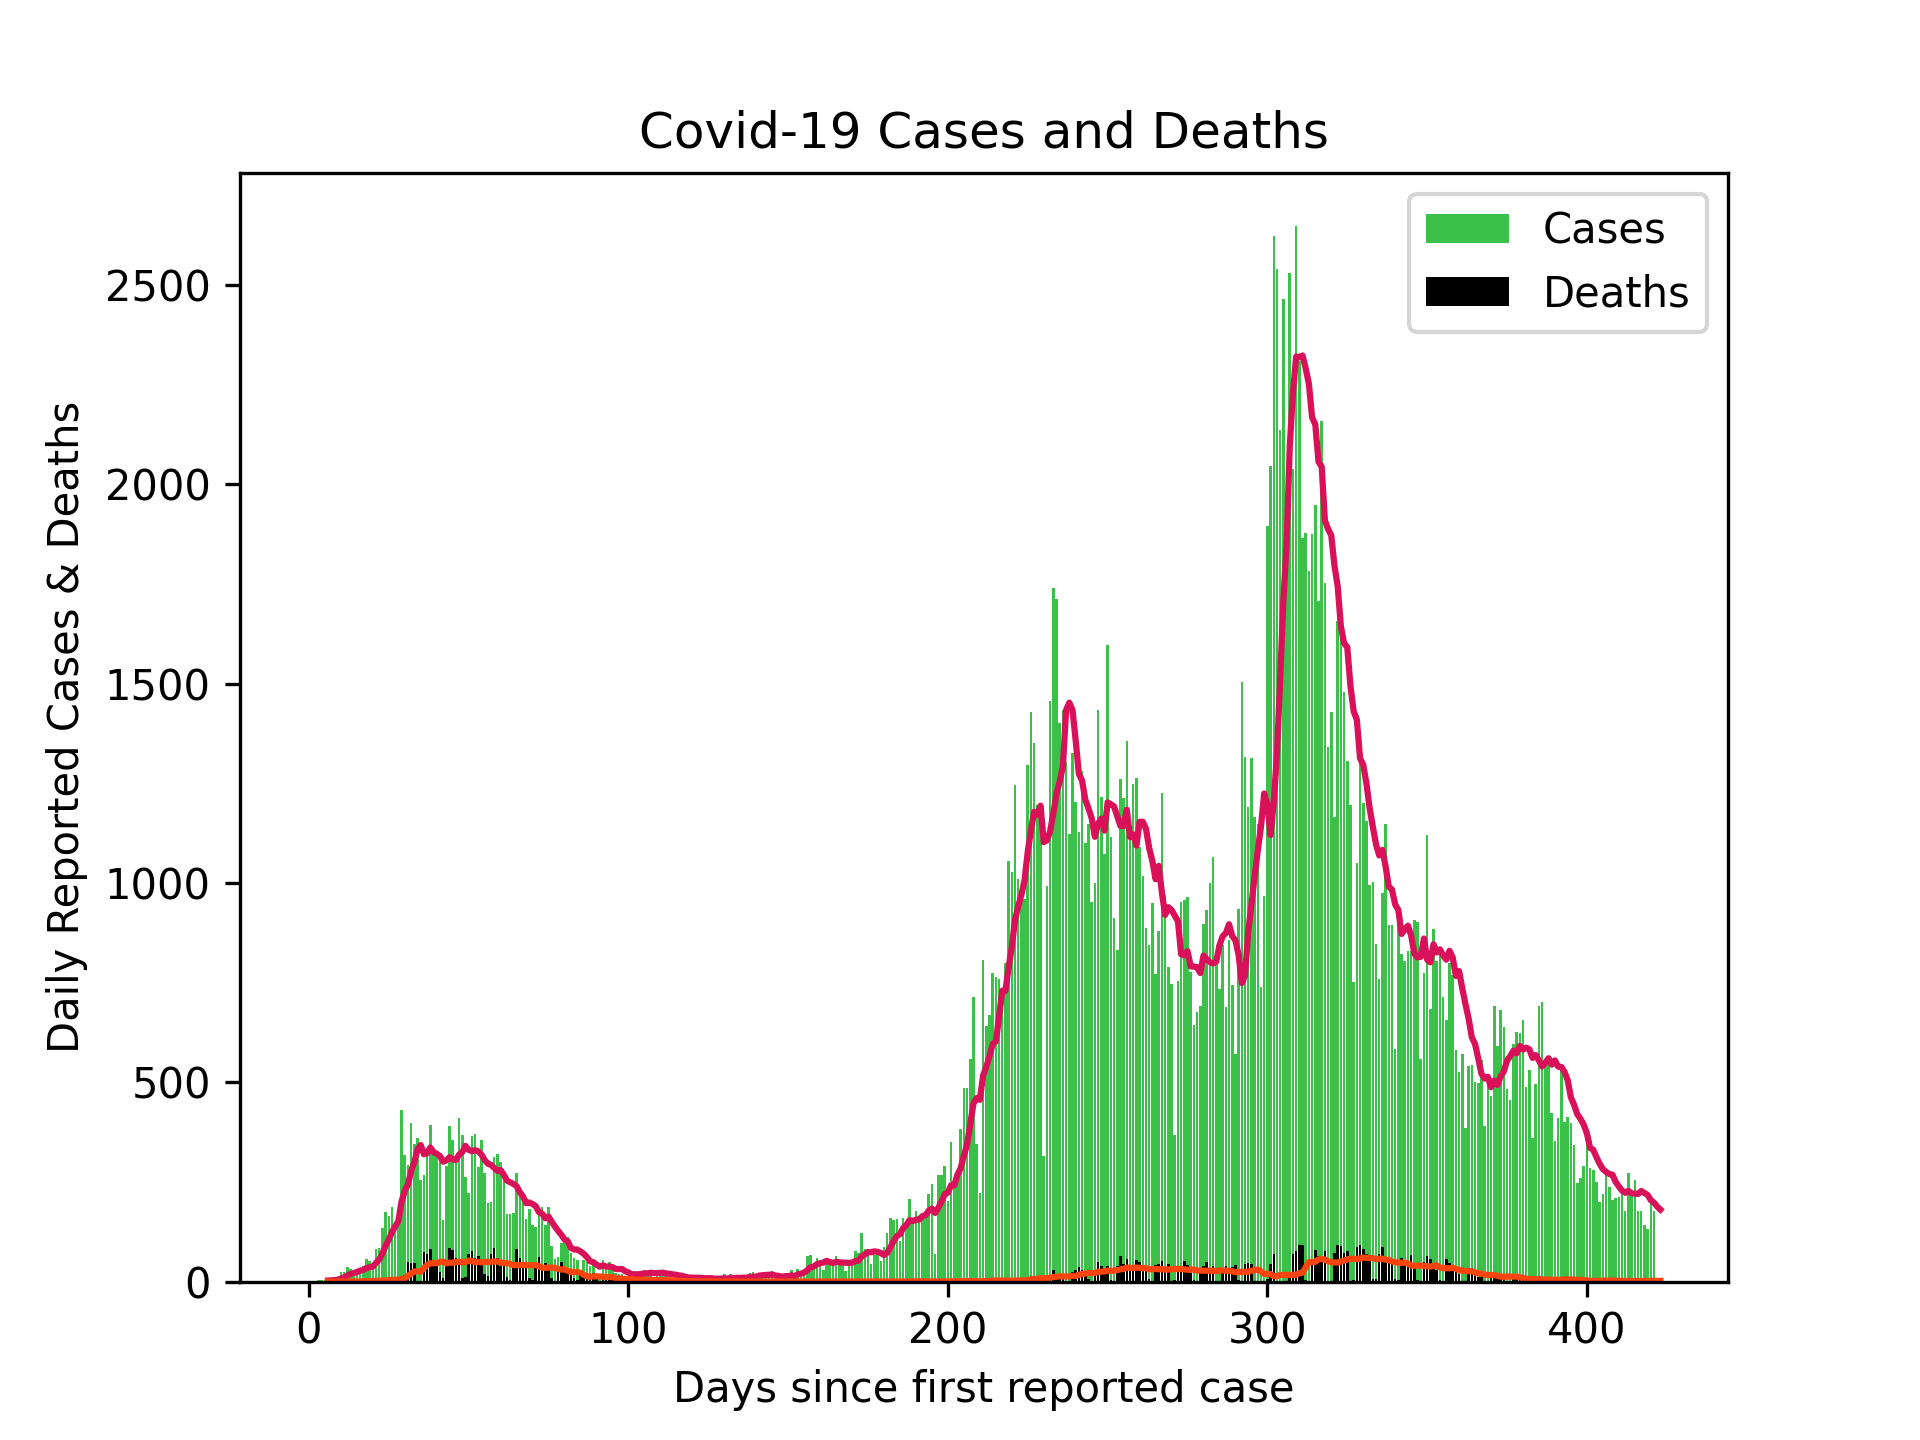
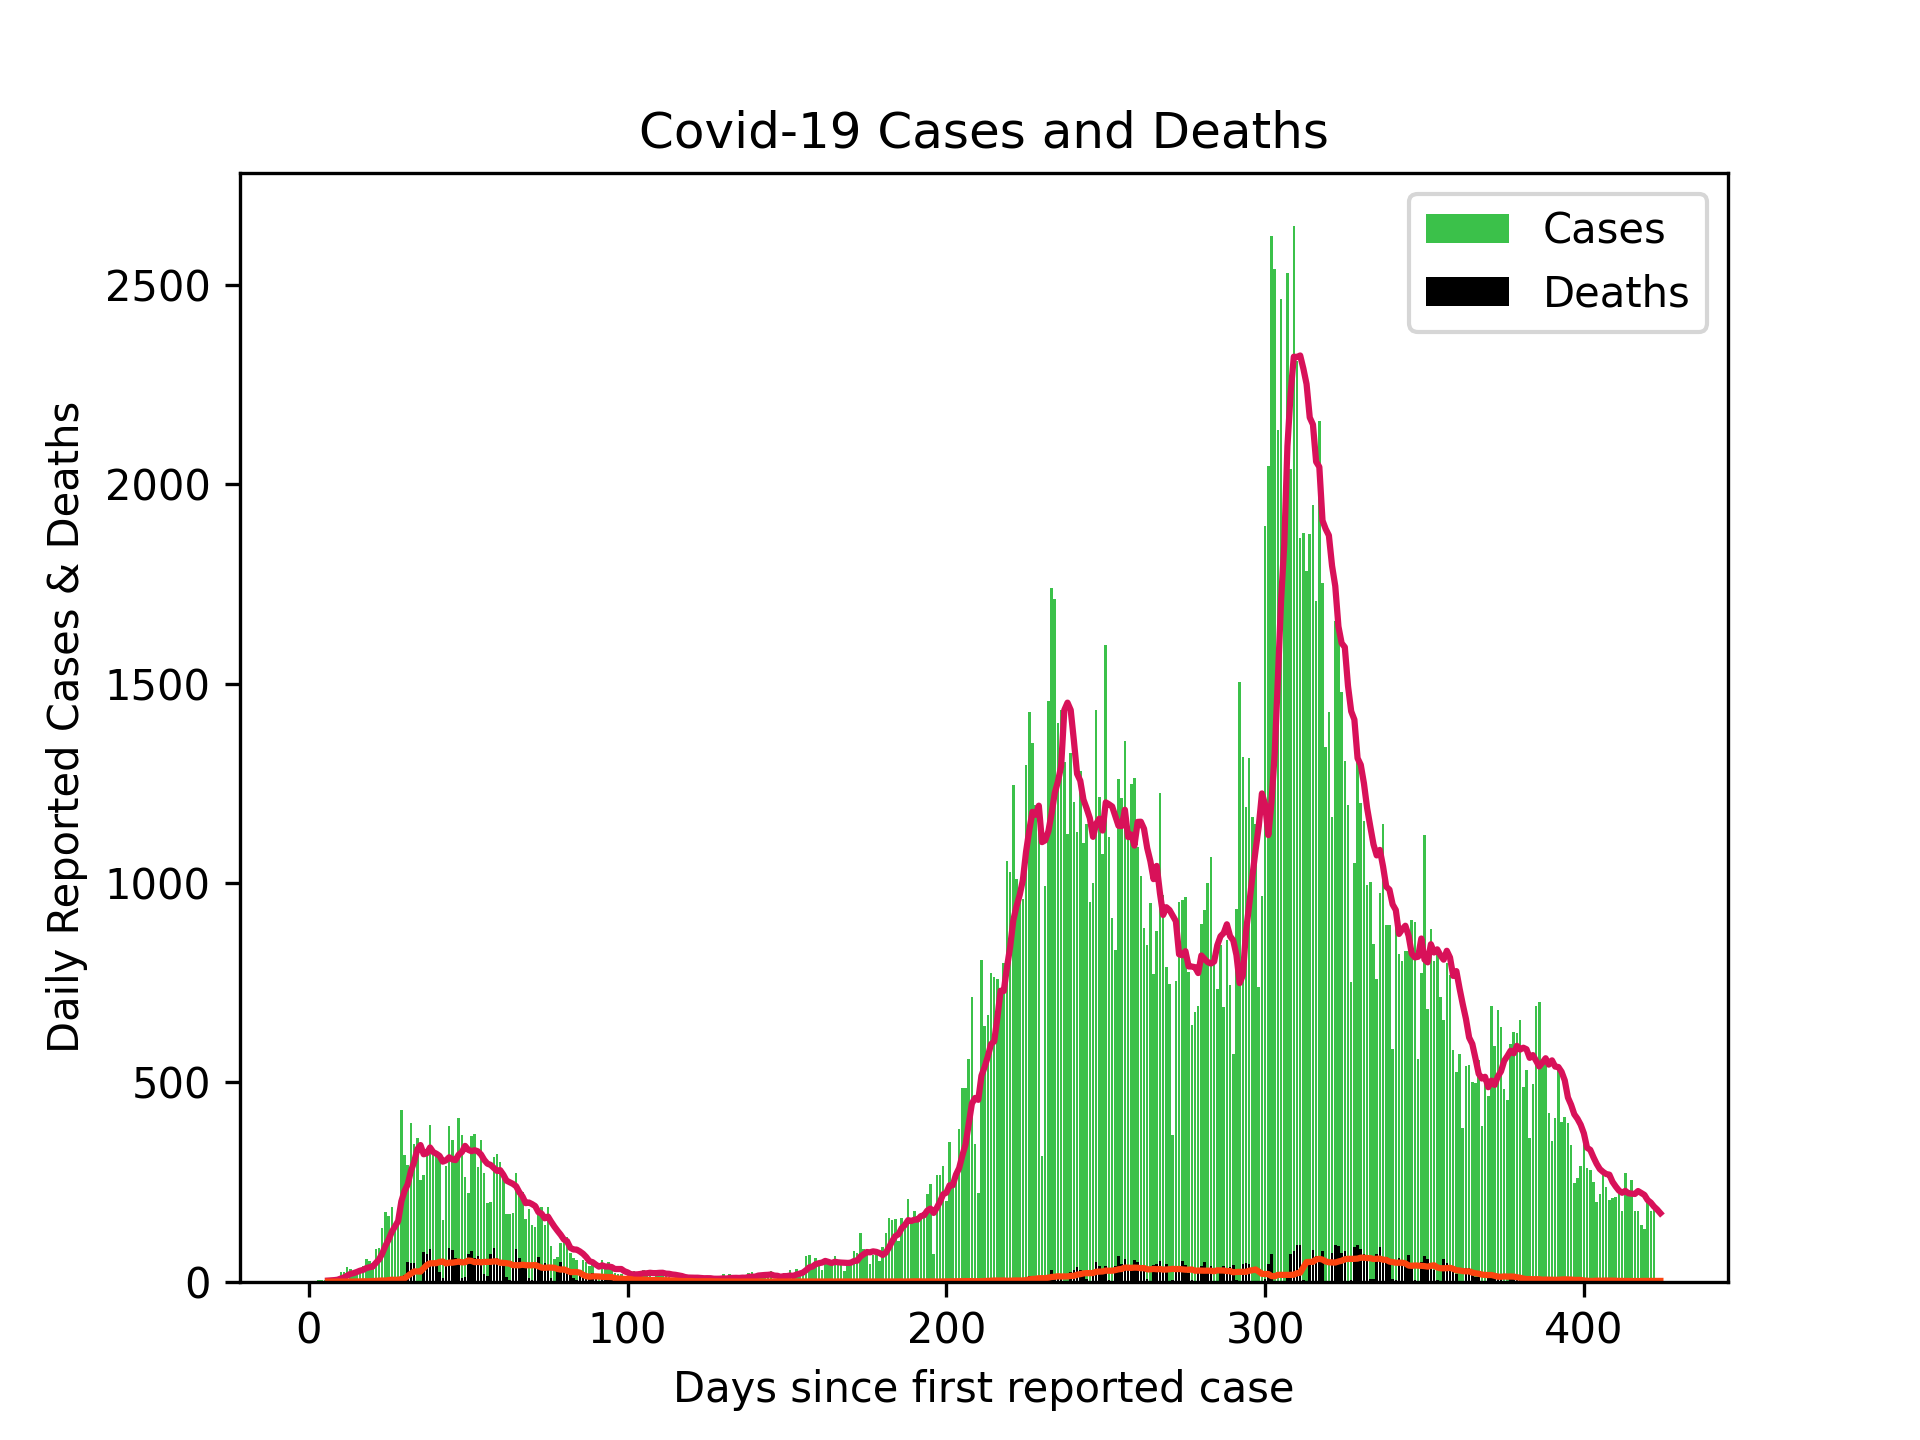
Updated Scottish cases 30/04/21

diff --git a/README.md b/README.md
@@ -1,4 +1,4 @@
-# Scottish Cases 29/04/21
+# Scottish Cases 30/04/21
 
 ![alt](scottish_cases.png)
 
